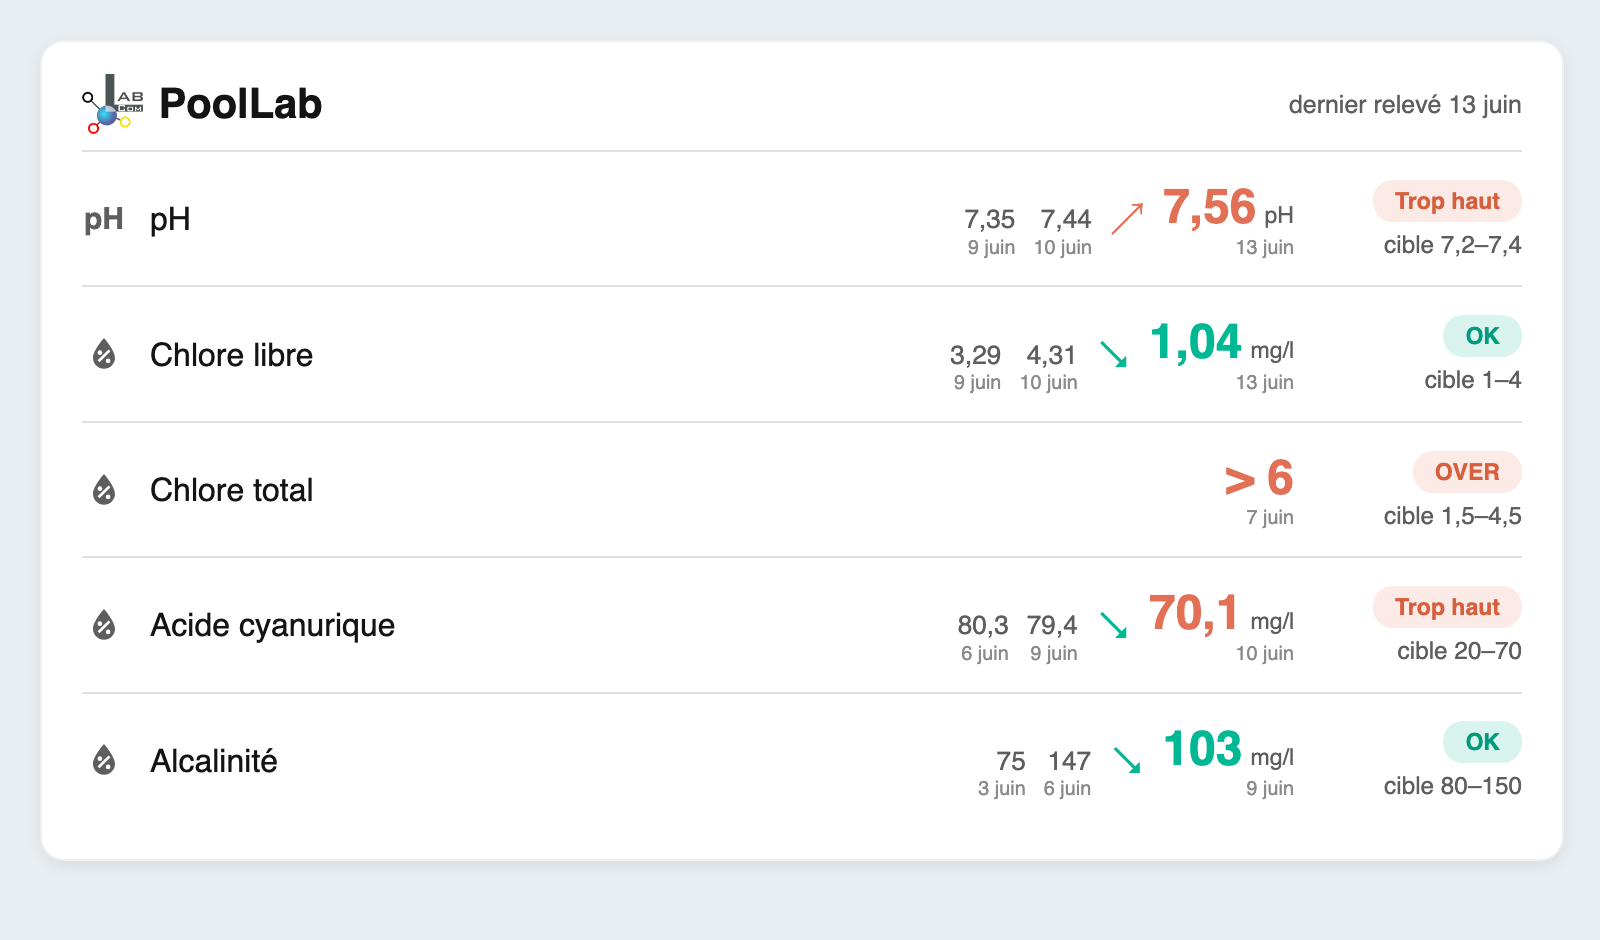
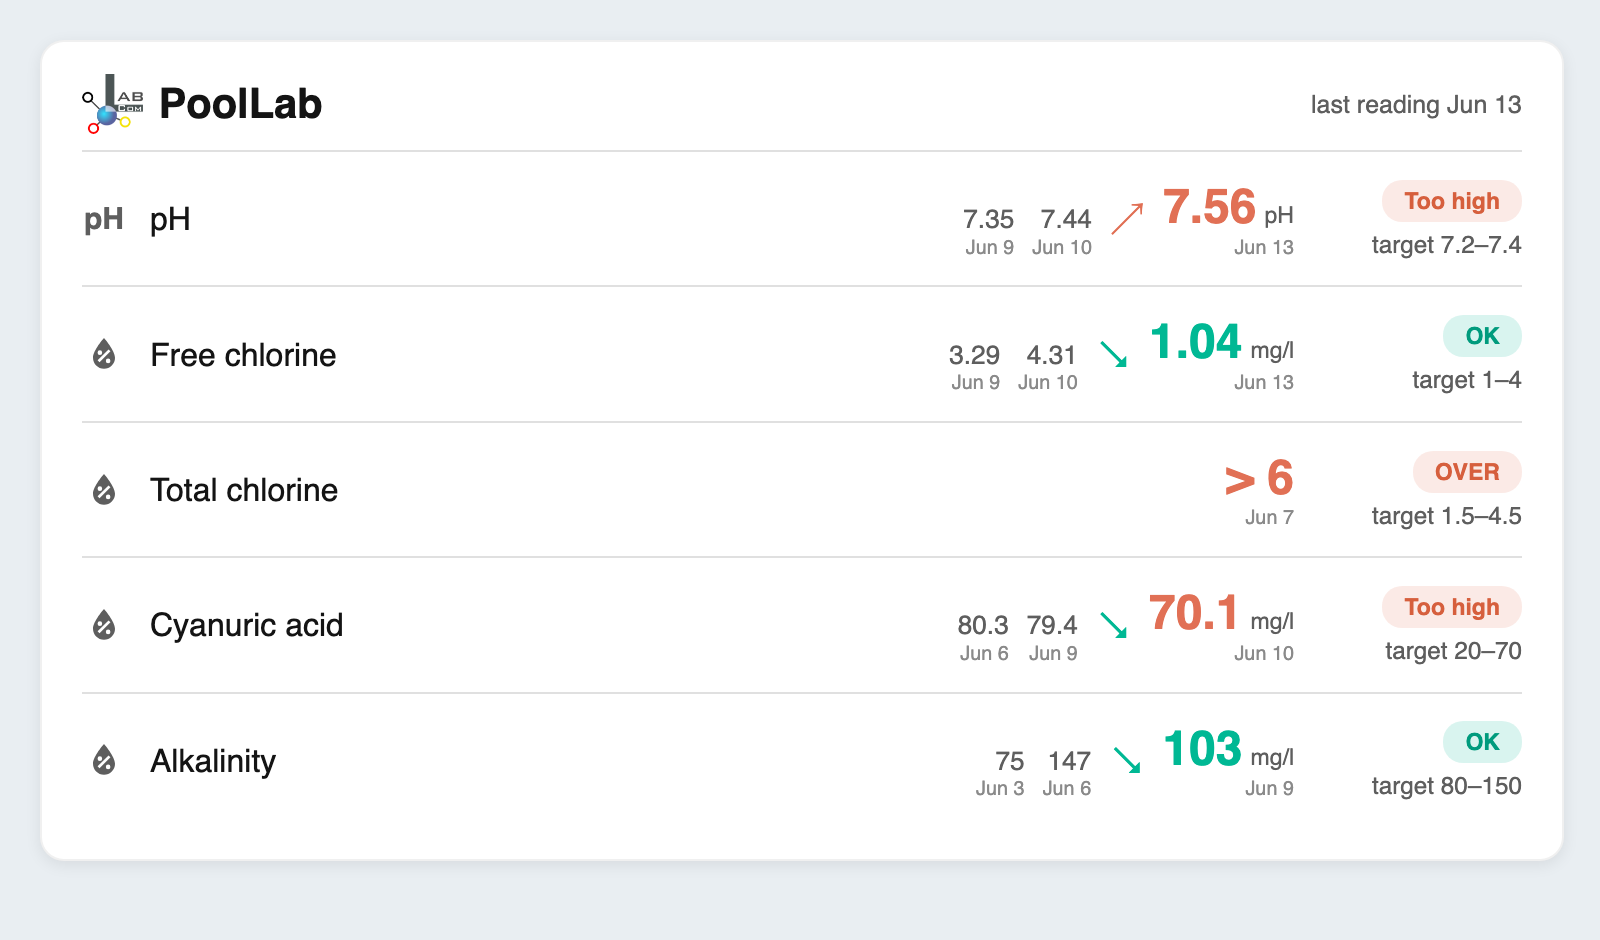
feat: multilingual UI (en/fr/de/es/it/nl/pt), auto-detected
- card and editor strings, parameter names, pills, target and dates are
  now localized; language auto-detected from Home Assistant (hass locale),
  with English fallback and an optional language config override
- dates via Intl, decimal separator per locale
- README screenshot regenerated in English; document the language option

diff --git a/README.md b/README.md
@@ -11,6 +11,8 @@
 
 <a href="https://buymeacoffee.com/adnpolymerase" target="_blank"><img src="https://cdn.buymeacoffee.com/buttons/v2/default-orange.png" alt="Buy Me A Coffee" height="60"></a>
 
+Multilingual (English, French, German, Spanish, Italian, Dutch, Portuguese — auto-detected from Home Assistant).
+
 A clean Lovelace card for the [PoolLab](https://github.com/Production-Wright/poollab) water analysis integration.
 Shows your latest reading for each parameter, the previous measurements, and colors the current value
 against its ideal target — with proper handling of **OVER** readings (values above the test's measurable range).
@@ -93,6 +95,7 @@ entities:
 | Option | Default | Description |
 |---|---|---|
 | `title` | PoolLab | Card title |
+| `language` | _auto_ | UI language: `en`, `fr`, `de`, `es`, `it`, `nl`, `pt`. Auto-detected from Home Assistant when omitted (English fallback) |
 | `measurements` | `3` | How many measurements to show per parameter: `1` (latest only), `2`, or `3` — previous ones shown with their date |
 | `entities` | — | List of PoolLab sensor entities (strings, or objects with overrides) — pick only the parameters you actually use |
 | `show_date` | `true` | Show each measurement's real date (`measured_at`) |